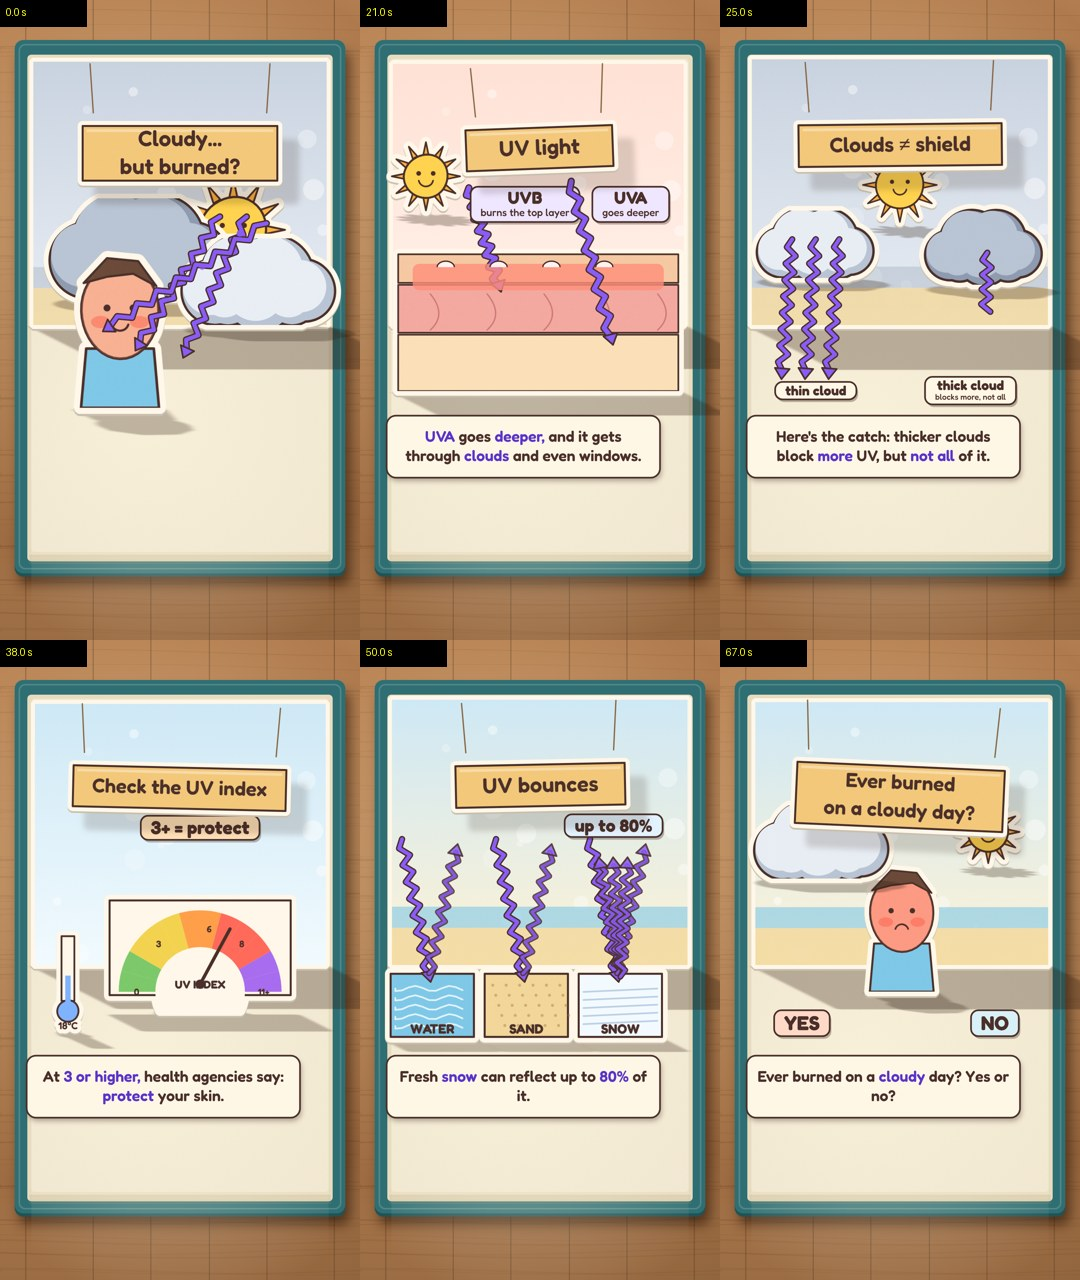
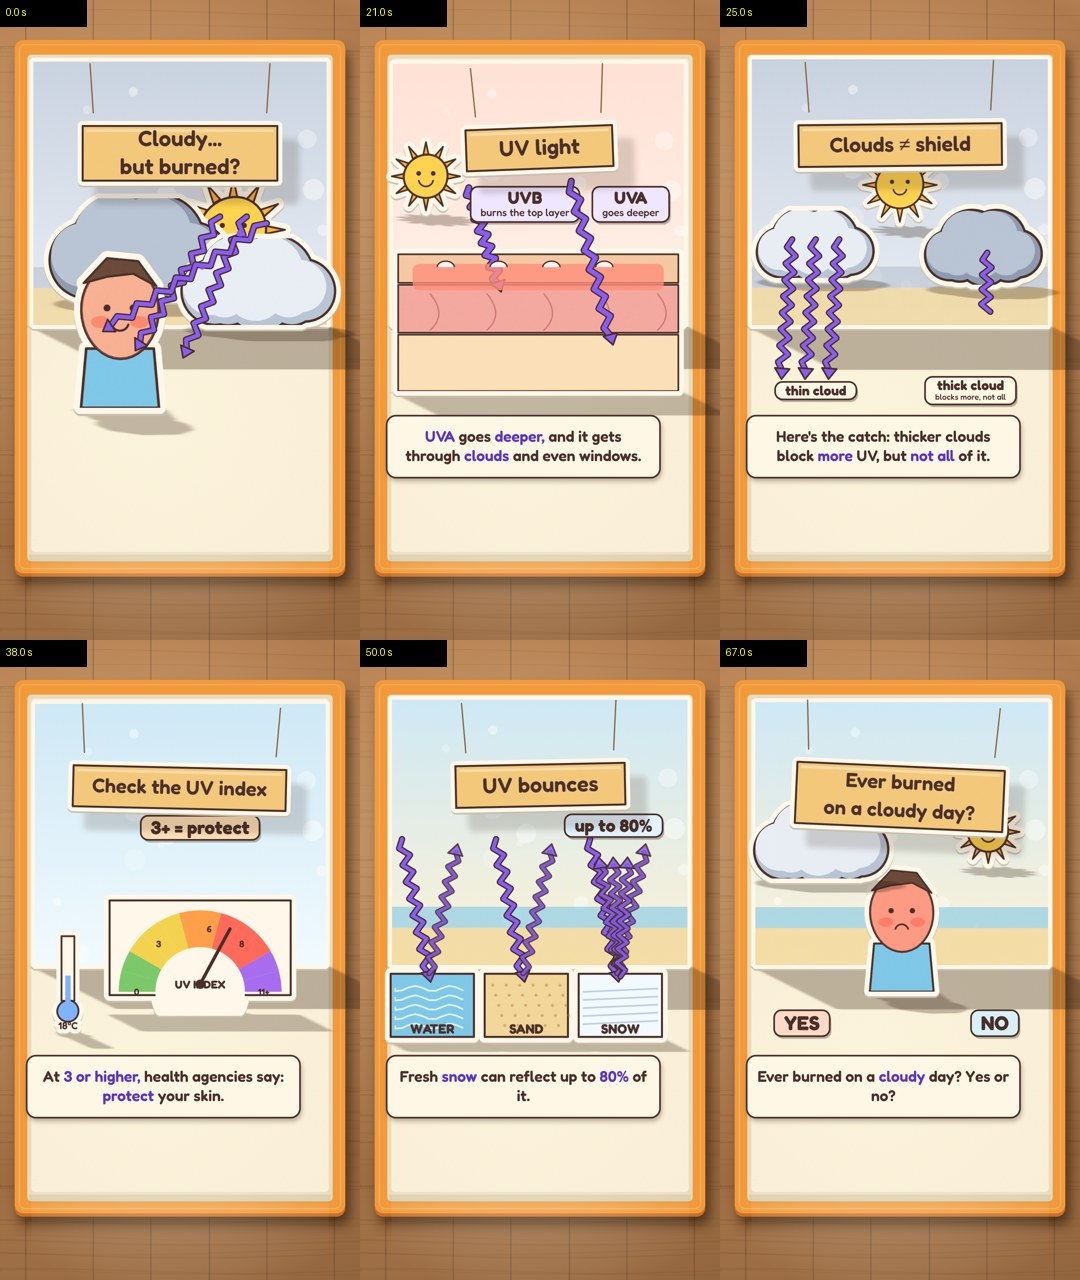
sunburn: own sunny palette (orange cover, sandy desk), per main
Claude-Session: https://claude.ai/code/session_01BPYB3p1FWoUGpnGH5tCKNK

Changed region(s): [[0.0, 0.5312, 1.0, 0.9688], [0.0, 0.0312, 1.0, 0.4688]]

diff --git a/reels/t_sunburn.js b/reels/t_sunburn.js
@@ -7,6 +7,8 @@
 import { W, H, PAL, clamp, lerp, ramp, ease, back, hash, wobble, ink, crescent, bez, card, pop, foldTab, desk, book, board, sign, label, BOOK } from './styles/popup/popup.js';
 await document.fonts.load('600 60px Fredoka'); await document.fonts.load('500 30px Fredoka');
 const TL = window.TL, PH = TL.p, s = i => PH[i].start, e = i => PH[i].end, TOT = TL.total;
+// EP 93's own palette (stomachgrowl and microwavecenter use the same kit with the teal cover on a wood desk): a sunny orange cover on a sandy desk
+Object.assign(PAL, { cover: '#f29a3a', coverDark: '#c9702a', desk: '#e2bf86', deskDark: '#c39a5e', page: '#fff4dc' });
 const cv = document.getElementById('c'); cv.width = W; cv.height = H; let g = cv.getContext('2d'); const R = ramp;
 const UV = '#8a5cf6', UVD = '#5b34c9', SKIN = '#f6c9a3', BURN = '#ff8f7a', SAND = '#f3d79a', SEA = '#7fc8e8', SNOW = '#f4fbff', CLOUD = '#e9eef5', CLOUDD = '#b9c4d4';
 const rect = (w, h, m = 6) => [[m, m], [w - m, m], [w - m, h - m], [m, h - m]];
